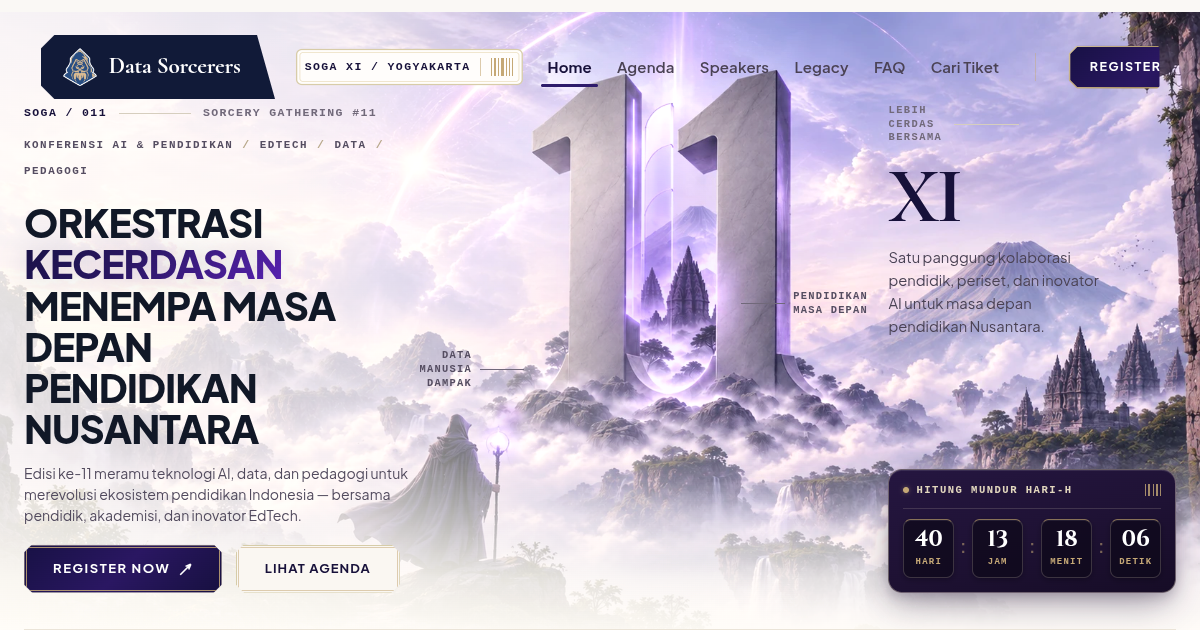
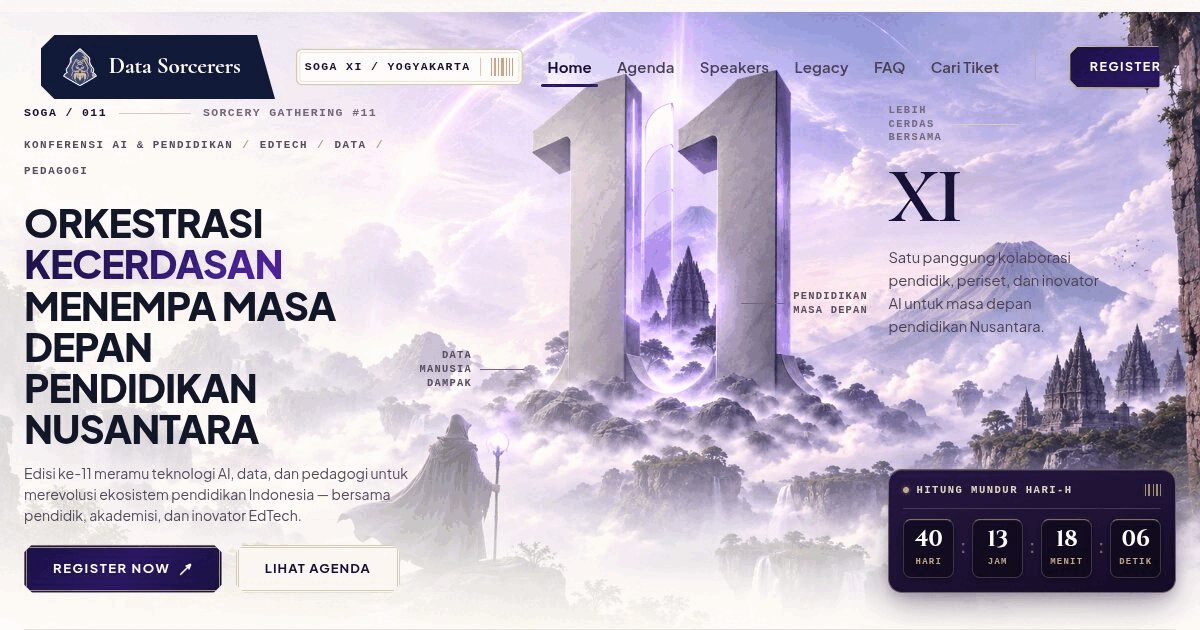
fix(seo): switch og:image to 152KB JPEG to ensure instant preview on WhatsApp and mobile scrapers

diff --git a/index.html b/index.html
@@ -18,17 +18,17 @@
   <meta property="og:site_name" content="Data Sorcerers Indonesia" />
   <meta property="og:title" content="Sorcery Gathering #11 — AI for Education | Data Sorcerers" />
   <meta property="og:description" content="Sorcery Gathering #11 — Orkestrasi Kecerdasan: Menempa Masa Depan Pendidikan Nusantara. Konferensi AI, EdTech, dan Pedagogi di Yogyakarta." />
-  <meta property="og:image" content="https://soga11.vercel.app/assets/og-image.png" />
-  <meta property="og:image:secure_url" content="https://soga11.vercel.app/assets/og-image.png" />
+  <meta property="og:image" content="https://soga11.vercel.app/assets/og-image.jpg" />
+  <meta property="og:image:secure_url" content="https://soga11.vercel.app/assets/og-image.jpg" />
   <meta property="og:image:width" content="1200" />
   <meta property="og:image:height" content="630" />
-  <meta property="og:image:type" content="image/png" />
+  <meta property="og:image:type" content="image/jpeg" />
   <meta property="og:image:alt" content="Sorcery Gathering #11 — Data Sorcerers Indonesia" />
   <meta name="twitter:card" content="summary_large_image" />
   <meta name="twitter:url" content="https://soga11.vercel.app/" />
   <meta name="twitter:title" content="Sorcery Gathering #11 — AI for Education | Data Sorcerers" />
   <meta name="twitter:description" content="Orkestrasi Kecerdasan: Menempa Masa Depan Pendidikan Nusantara. Konferensi AI, EdTech, dan Pedagogi di Yogyakarta." />
-  <meta name="twitter:image" content="https://soga11.vercel.app/assets/og-image.png" />
+  <meta name="twitter:image" content="https://soga11.vercel.app/assets/og-image.jpg" />
   <meta name="twitter:image:alt" content="Sorcery Gathering #11 — Data Sorcerers Indonesia" />
 
   <!-- Font -->

diff --git a/certificate.html b/certificate.html
@@ -18,17 +18,17 @@
   <meta property="og:site_name" content="Data Sorcerers Indonesia" />
   <meta property="og:title" content="Klaim Sertifikat — Sorcery Gathering #11" />
   <meta property="og:description" content="Klaim E-Sertifikat Sorcery Gathering #11 — Data Sorcerers Indonesia." />
-  <meta property="og:image" content="https://soga11.vercel.app/assets/og-image.png" />
-  <meta property="og:image:secure_url" content="https://soga11.vercel.app/assets/og-image.png" />
+  <meta property="og:image" content="https://soga11.vercel.app/assets/og-image.jpg" />
+  <meta property="og:image:secure_url" content="https://soga11.vercel.app/assets/og-image.jpg" />
   <meta property="og:image:width" content="1200" />
   <meta property="og:image:height" content="630" />
-  <meta property="og:image:type" content="image/png" />
+  <meta property="og:image:type" content="image/jpeg" />
   <meta property="og:image:alt" content="Sorcery Gathering #11 — Data Sorcerers Indonesia" />
   <meta name="twitter:card" content="summary_large_image" />
   <meta name="twitter:url" content="https://soga11.vercel.app/certificate.html" />
   <meta name="twitter:title" content="Klaim Sertifikat — Sorcery Gathering #11" />
   <meta name="twitter:description" content="Klaim E-Sertifikat Sorcery Gathering #11 — Data Sorcerers Indonesia." />
-  <meta name="twitter:image" content="https://soga11.vercel.app/assets/og-image.png" />
+  <meta name="twitter:image" content="https://soga11.vercel.app/assets/og-image.jpg" />
   <meta name="twitter:image:alt" content="Sorcery Gathering #11 — Data Sorcerers Indonesia" />
 
   <link rel="preconnect" href="https://fonts.googleapis.com" />
